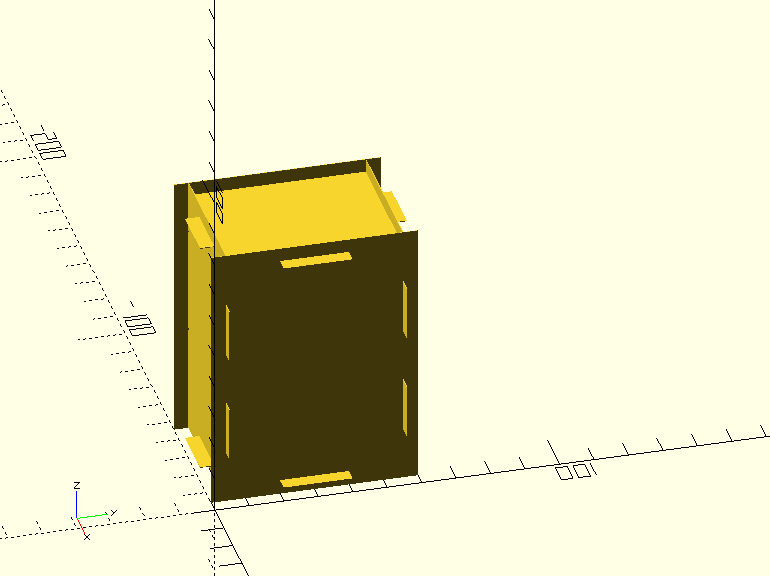
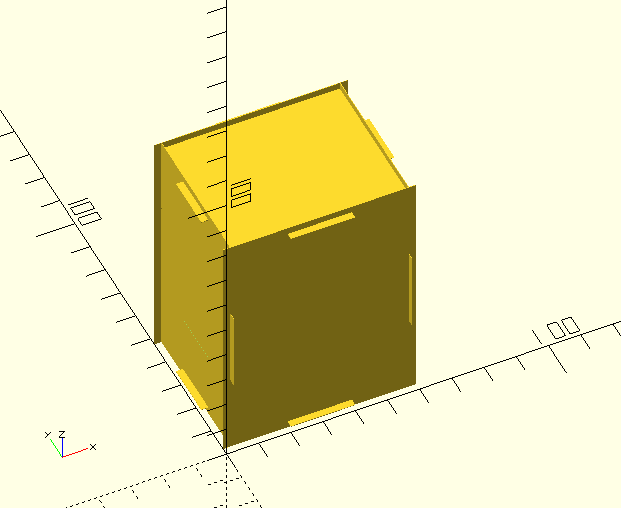
Improved vinyl box

diff --git a/README.md b/README.md
@@ -120,7 +120,7 @@ Easy to make a box with four, five or six side. Uses finger joints with the corr
 ```
 include <lasercut.scad>; 
 
-rotate([0,270,0]) lasercutoutVinylBox(x=80, y=60, z=50, thickness=0.2);
+lasercutoutVinylBox(x=60, y=50, z=80, thickness=0.2);
 ```
 ![alt tag](https://raw.githubusercontent.com/bmsleight/lasercut/master/readme/example-014.png)
 
